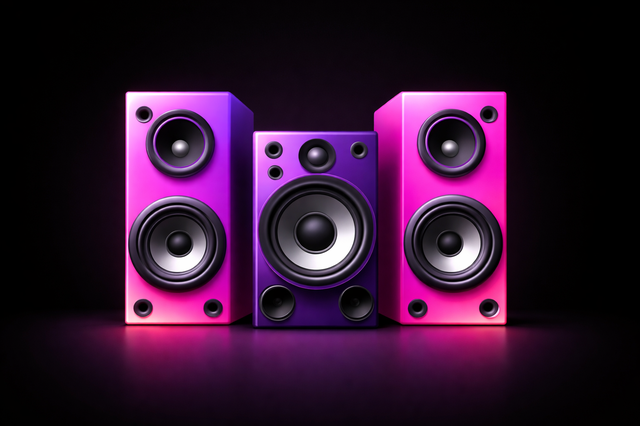
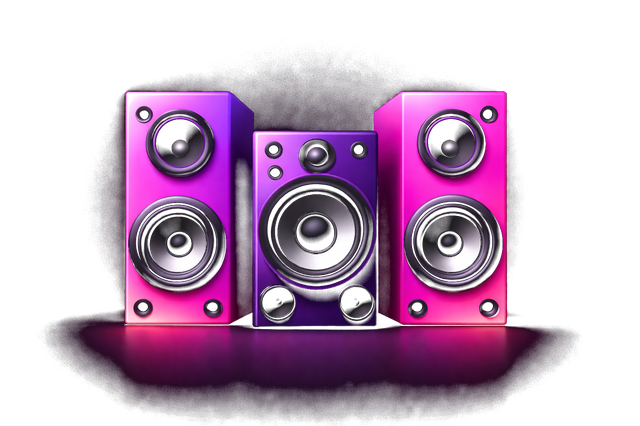
Remove black bg from mobile hero – transparent PNG integration
- Strip black background from speakers image (smooth alpha fade)
- Speakers now float naturally over site's radial gradient bg
- Remove mask-image (no longer needed with transparent bg)
- Add purple glow behind speakers on tablet for depth
- Increase top padding to prevent navbar overlap
- Reduce negative margins for better spacing

diff --git a/styles.css b/styles.css
@@ -3446,17 +3446,18 @@ select:focus-visible,
 
 /* ── Tablet & Small Desktop (max-width: 768px) ── */
 @media (max-width: 768px) {
-  /* Hero – compact with horizontal image */
-  .hero { padding: 76px 0 20px; }
-  .hero-grid { gap: 4px; }
-  .hero-image { order: -1; margin-bottom: -8px; }
+  /* Hero – transparent image blends with bg */
+  .hero { padding: 80px 0 20px; }
+  .hero-grid { gap: 8px; }
+  .hero-image { order: -1; margin-bottom: -4px; }
   .hero-image img {
-    max-width: 320px;
+    max-width: 300px;
     animation: none;
-    -webkit-mask-image: radial-gradient(ellipse 90% 85% at 50% 50%, #000 50%, transparent 100%);
-    mask-image: radial-gradient(ellipse 90% 85% at 50% 50%, #000 50%, transparent 100%);
+    -webkit-mask-image: none;
+    mask-image: none;
+    filter: saturate(1.2) contrast(1.05);
   }
-  .hero-image-glow { filter: blur(30px); width: 50%; height: 50%; }
+  .hero-image-glow { filter: blur(35px); width: 55%; height: 55%; background: radial-gradient(ellipse, rgba(124, 58, 237, 0.2) 0%, transparent 70%); }
   .hero p { margin-bottom: 20px; }
   .hero-buttons .btn { width: 100%; max-width: 320px; }
 
@@ -3523,14 +3524,14 @@ select:focus-visible,
   .section-title { font-size: 1.5rem; margin-bottom: 8px; }
   .section-subtitle { font-size: 0.85rem; }
 
-  /* Hero – compact with horizontal image, one screen */
-  .hero { padding: 64px 0 12px; min-height: auto; }
-  .hero-grid { gap: 0; }
-  .hero-image { margin-bottom: -12px; }
+  /* Hero – transparent image, one screen */
+  .hero { padding: 68px 0 12px; min-height: auto; }
+  .hero-grid { gap: 4px; }
+  .hero-image { margin-bottom: -6px; }
   .hero-image img {
-    max-width: 280px;
-    -webkit-mask-image: radial-gradient(ellipse 95% 90% at 50% 50%, #000 45%, transparent 100%);
-    mask-image: radial-gradient(ellipse 95% 90% at 50% 50%, #000 45%, transparent 100%);
+    max-width: 250px;
+    -webkit-mask-image: none;
+    mask-image: none;
   }
   .hero-image-glow { display: none; }
   .hero h1 { font-size: 1.65rem; margin-bottom: 10px; line-height: 1.15; }
@@ -3703,9 +3704,9 @@ select:focus-visible,
   .container { padding: 0 12px; }
 
   /* Hero */
-  .hero { padding: 56px 0 8px; }
-  .hero-image { margin-bottom: -16px; }
-  .hero-image img { max-width: 230px; }
+  .hero { padding: 60px 0 8px; }
+  .hero-image { margin-bottom: -8px; }
+  .hero-image img { max-width: 210px; }
   .hero h1 { font-size: 1.35rem; margin-bottom: 8px; }
   .hero p { font-size: 0.78rem; margin-bottom: 12px; line-height: 1.5; }
   .hero-badge { font-size: 0.62rem; padding: 4px 10px; margin-bottom: 10px; }
@@ -3748,4 +3749,3 @@ select:focus-visible,
   /* Footer */
   .footer-links a { font-size: 0.8rem; }
 }
-/* cache-bust 1775036094 */
